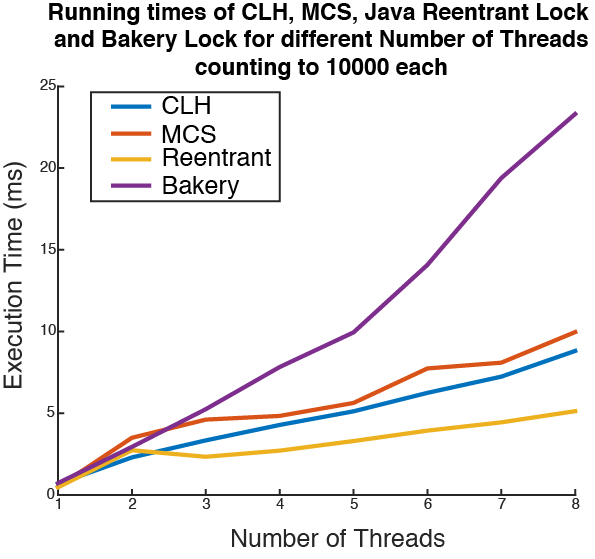
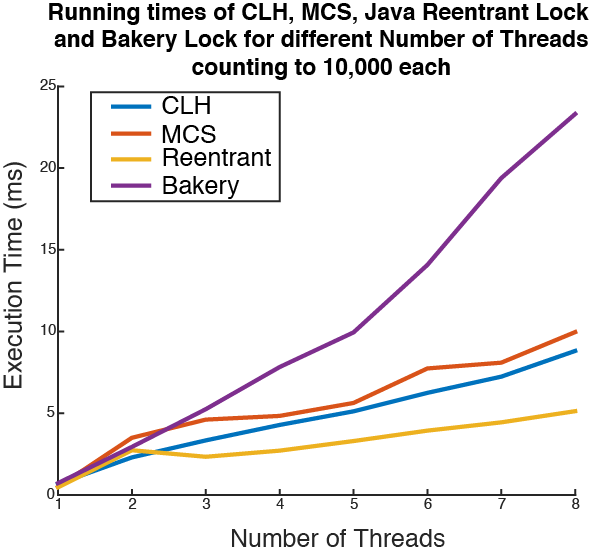
progress stuff done

Changed region(s): [[0.3025, 0.0912, 0.7563, 0.1521]]

diff --git a/Checkpoint_Report/Progress.tex b/Checkpoint_Report/Progress.tex
@@ -6,10 +6,16 @@
 \section*{\textsc{\Large Progress}}
 Various locks, including the CLH lock, MCS Lock, Bakery Lock, and Szyma\`{n}ski's Algorithm have been implemented.  Using these algorithms, tests are being done to compare execution times.  The Szyma\`{n}ski's Algorithm is still having some data race bugs and thread failure bugs, therefore it is not included in these tests.  We also use the Java Reentrant Lock as a good base point for our testing and comparison to our own locks.  
 
-One of the tests we have performed already is that of simple counting.  The threads will concurrently increment a counter variable, which is shared between all the threads, and using one of the aforementioned locks.
+One of the tests we have performed already is that of simple counting.  The threads will concurrently increment a counter variable, which is shared between all the threads, while using one of the aforementioned locks.  The results of each thread counting to 10,000 using the four different locks can be seen in Fig.~\ref{fig:counting}.\\
 
 \begin{figure}[H]
 	\centering
-	\includegraphics[]{runningTime.png}
+	\includegraphics[scale = 1.1]{runningTime.png}
+	\caption{Results of different locks and concurrent counting}\label{fig:counting}
 \end{figure}
+
+These results were found by averaging the execution of 500 trials for each case.  The results show that even between 1-8 threads, the execution time difference is already significantly separating between the locks.  We see that the Bakery Lock's execution time increases much faster than the other locks.  The CLH and the MCS are both comparable in speed, with CLH lock consistently being $\sim1$ millisecond faster.  The Java Reentrant Lock also stays consistently faster than the rest of the locks.
+
+The test was only executed up to 8 threads because this is the number of cores on the test machine.  Once we pass the number of cores on the machine, the computer starts to create virtual threads, and these cause execution time to substantially increase.  Increasing the threads from 8 to 9 increased the execution time almost 10 fold.  Tests will be done to see if the execution time keeps its trend while executing with virtual threads, and with different computers with different processors.  However, we can still see the general trend of execution time and thread number using only up to 8 threads.  
+
 \end{document}
